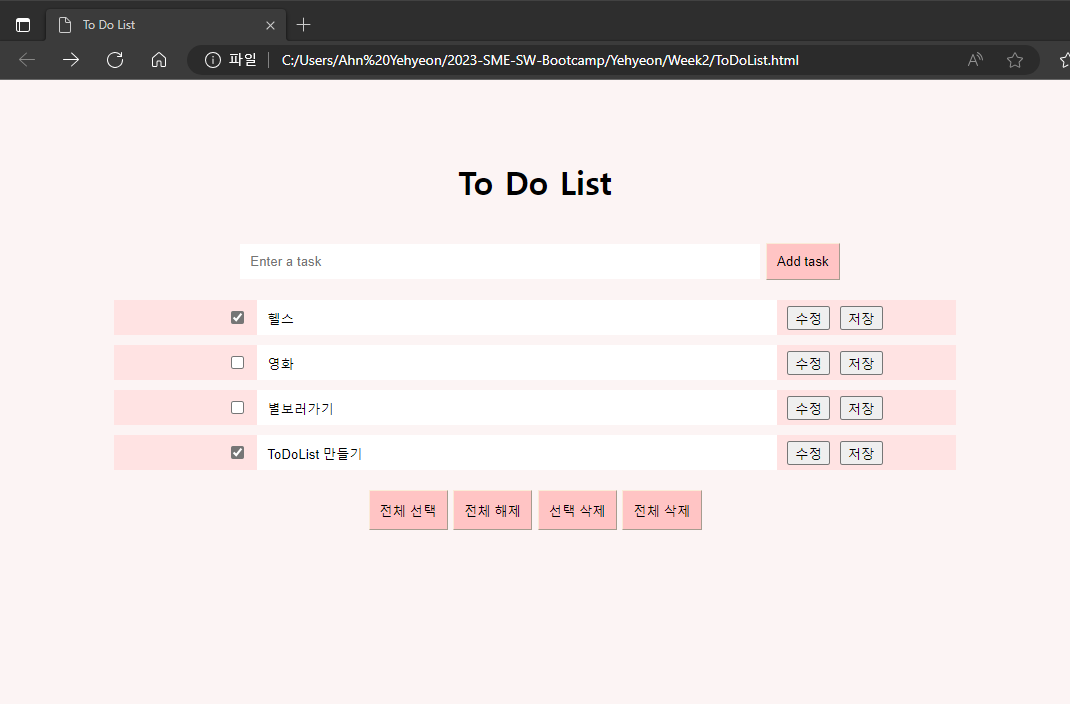
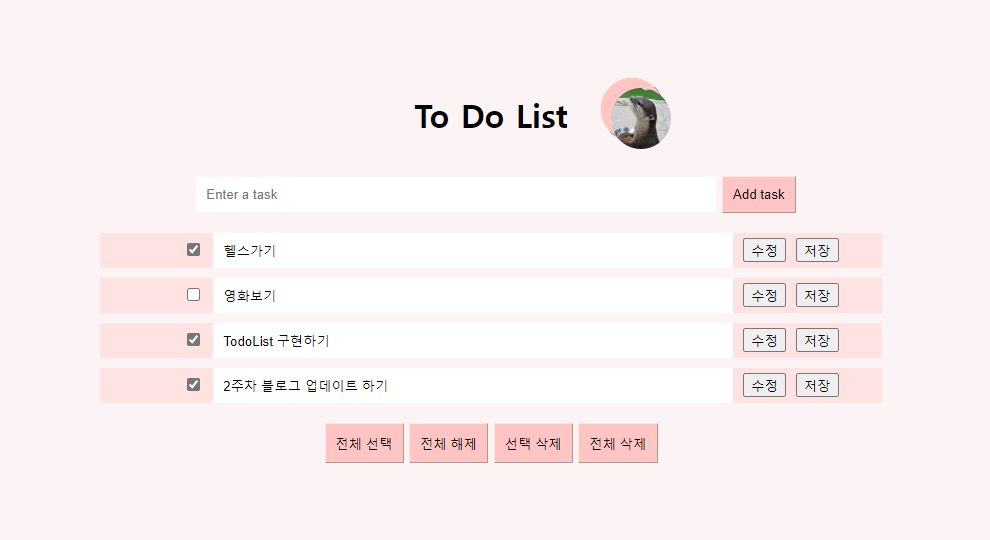
feat: gotomyblog

diff --git a/Yehyeon/Week2/TodoList.js b/Yehyeon/Week2/TodoList.js
@@ -72,3 +72,17 @@ function removeAll() {
     //     i++
     //   }
 }
+
+
+var url = 'https://github.com/AnYeHyeon/img/blob/main/KakaoTalk_20230705_150105913.jpg?raw=true';
+ 
+var image = new Image();
+image.src = url;
+document.getElementById('img_container').appendChild(image);
+image.setAttribute("id", "sudal")
+
+function gotomyblog() {
+    document.querySelector('button').addEventListener('click', e=>{
+    	window.open('https://busansudal.tistory.com/');
+    });
+}

diff --git a/Yehyeon/Week2/ToDoList.css b/Yehyeon/Week2/ToDoList.css
@@ -58,3 +58,19 @@ button {
 #Input_task {
     margin-bottom: 20px;
 }
+
+#img_container {
+    position: relative;
+    width: 64px;
+    height : 64px;
+    left: 500px;
+    top: 140px;
+    border-radius: 70%;
+}
+
+#sudal{
+    width : 60px;
+    height : auto;
+    border-radius: 70%;
+    overflow: hidden;
+}

diff --git a/Yehyeon/Week2/ToDoList.html b/Yehyeon/Week2/ToDoList.html
@@ -10,7 +10,8 @@
 
 <body>
     <header>
-        <h1>To Do List<hi>
+        <button id="img_container" onclick="gotomyblog()"></button>
+        <h1>To Do List</h1>
     </header>
 
     <section>
